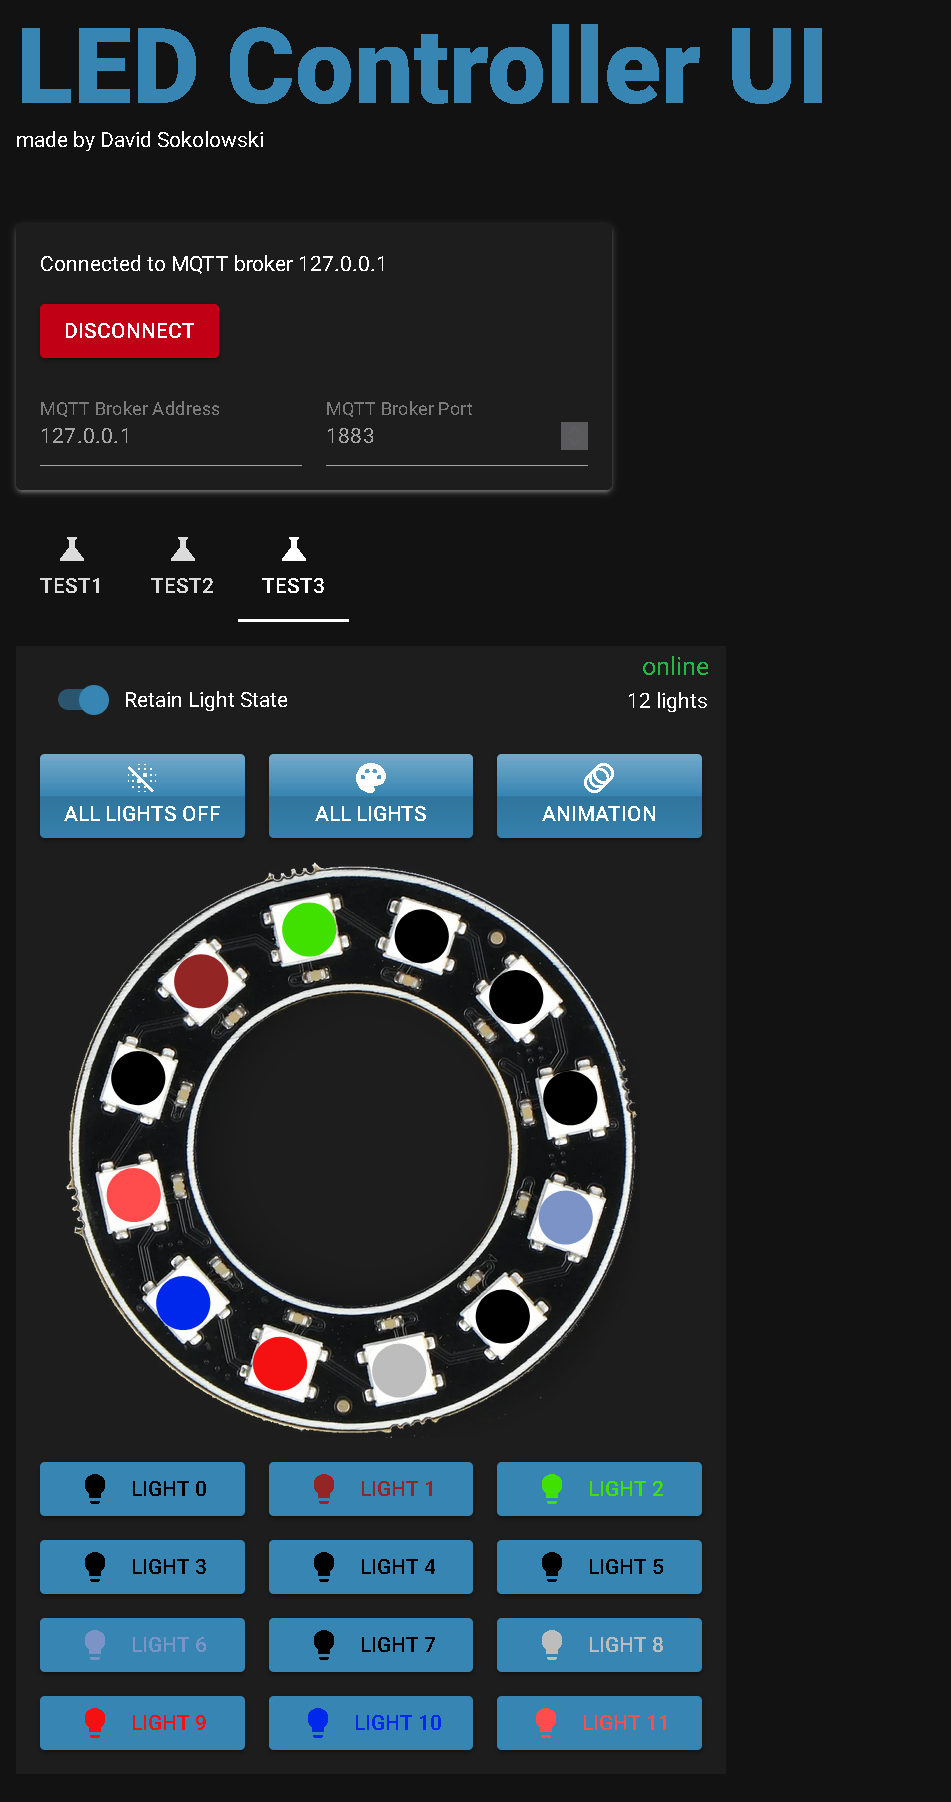
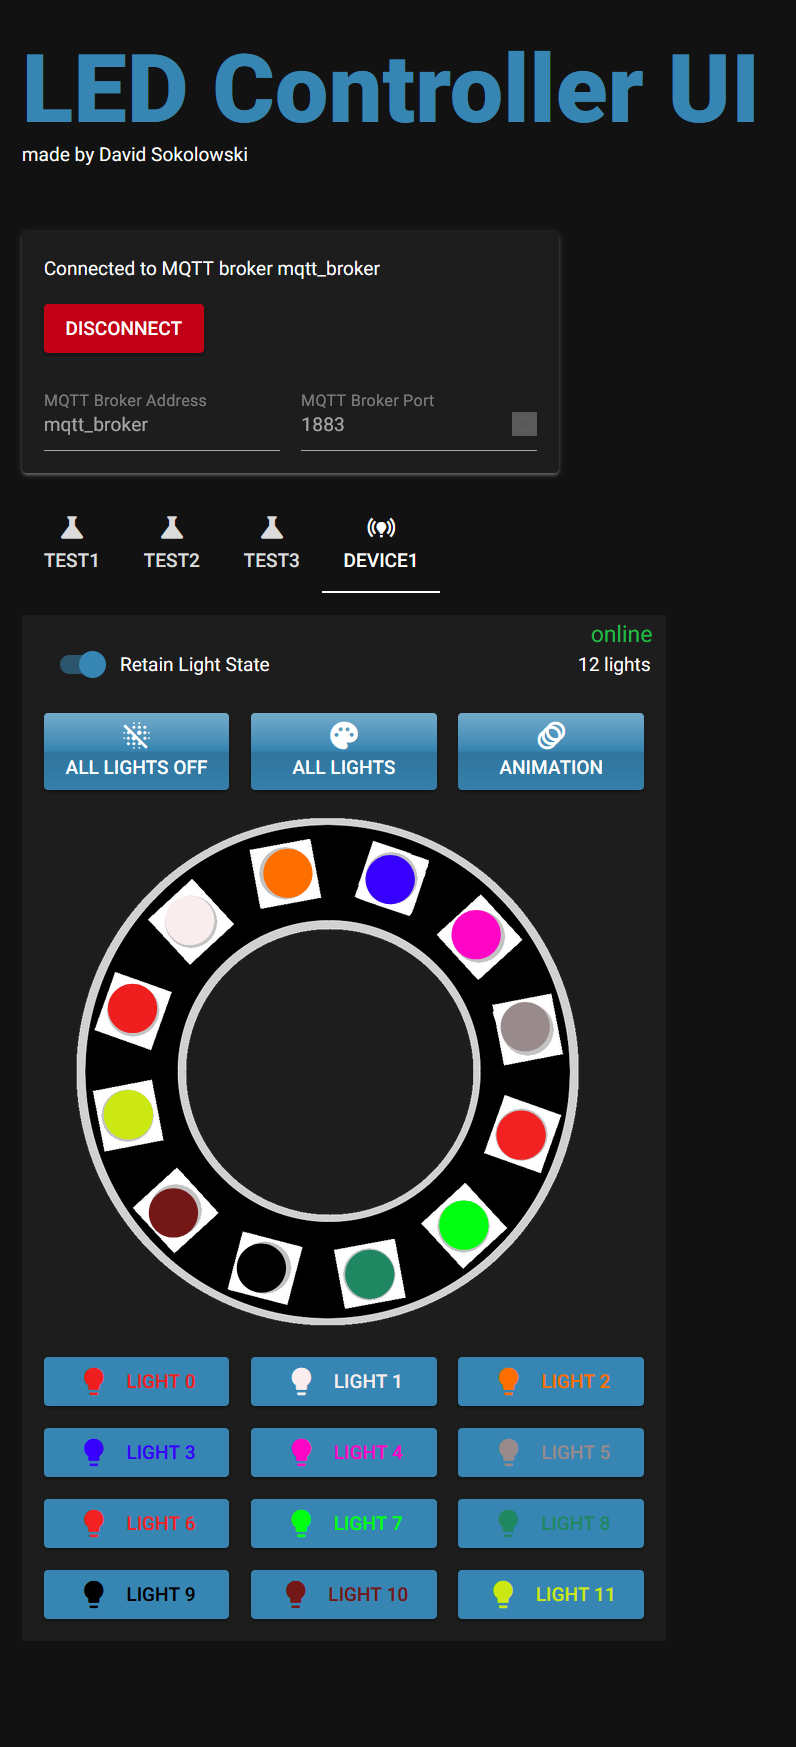
Update settings.py and media files

Changed region(s): [[0.0302, 0.34, 0.8141, 0.9891], [0.0302, 0.1236, 0.6935, 0.34], [0.0, 0.0, 0.9648, 0.0927]]

diff --git a/mqtt_led_controller_ui/settings.py b/mqtt_led_controller_ui/settings.py
@@ -3,7 +3,7 @@ broker_port = 1883  # the port of the MQTT broker (default: 1883)
 broker_username = "ui"  # the username for the MQTT broker
 broker_password = "password"  # the password for the MQTT broker
 
-test_devices = False  # if True, the UI will add test devices to the list of devices
+test_devices = True  # if True, the UI will add test devices to the list of devices
 
 led_ring_12_image_path = (
     "./media/led_ring.png"  # the path to the image of the 12-LED ring
